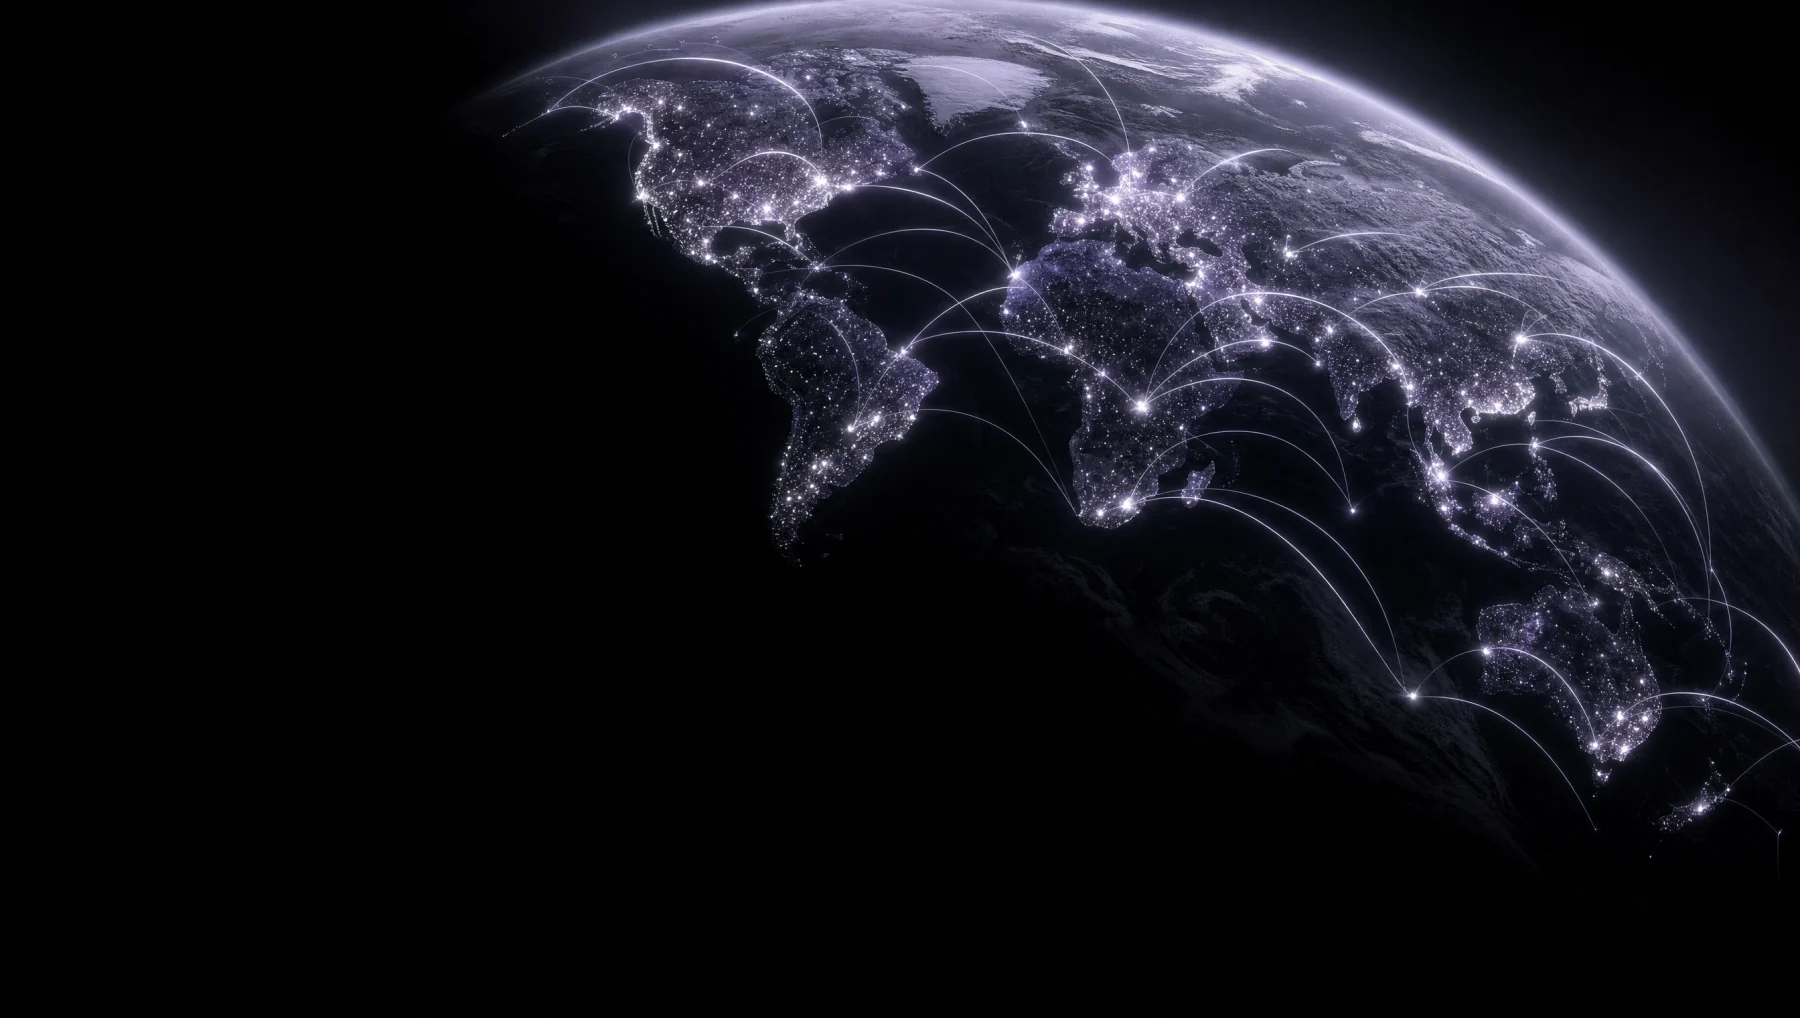
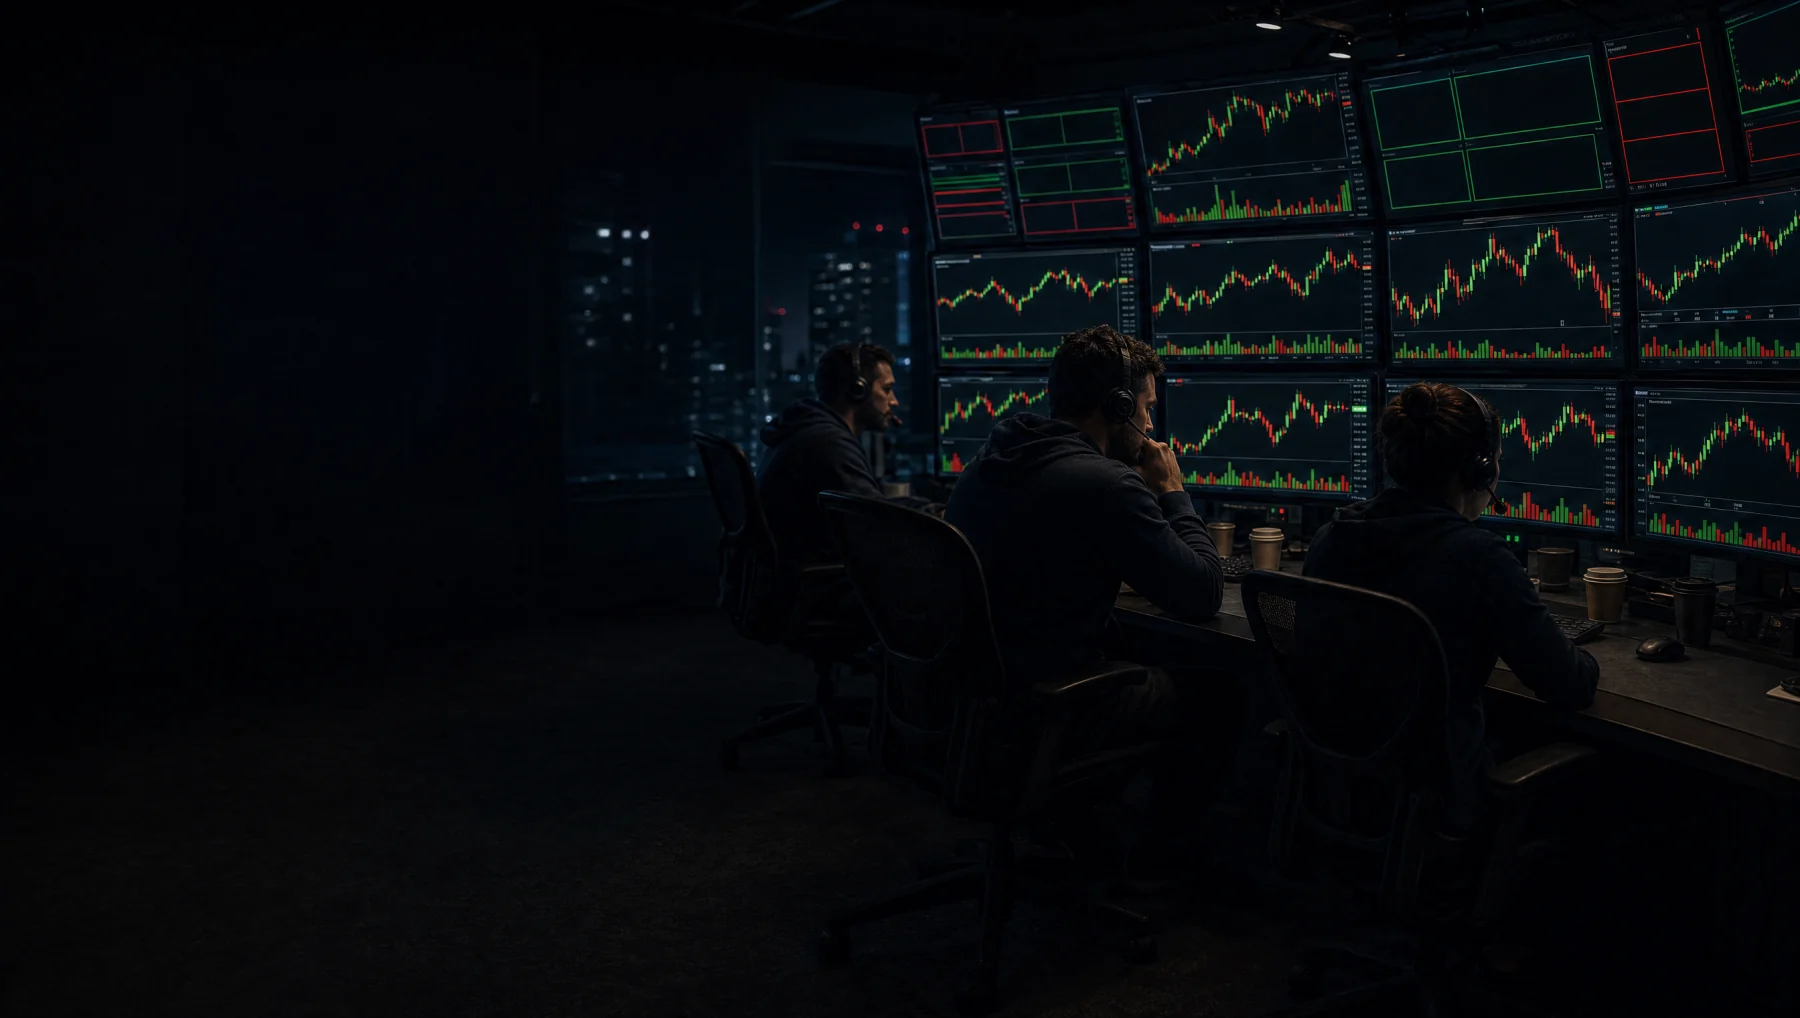
Fill every campaign with its own creative work
Generated 57 campaign images from the audit plan, each grounded in what
that campaign actually did: the Pavilion KL installation and murals for
Tiger, the tradesperson submission mechanic for Bosch, Gare du Nord and
creator content for Revolut, wallet-cluster investigations for
Bubblemaps, guild meetups across four markets for YGG, grandmaster
broadcasts for Immortal, an esports arena and a press riser for PIF.

Formats follow the brief: out-of-home posters, retail and mall
activations, creator verticals, product interfaces and a campaign
overview board per campaign, all composed with a dark lower left so the
channel title reads over them.

Sixteen of seventeen campaigns now show a creative collection, 76 tiles
in total, where eleven of them previously showed nothing at all.

Replaced three assets the audit flagged: two carried a visual
reconstruction note burned into the pixels, and Saitama's cover was a
stock globe. The JEDSTAR and CBRE covers Josh supplied are untouched.

Claude-Session: https://claude.ai/code/session_016UBiXsnMjyphaaZTz76UZe

Changed region(s): [[0.28, 0.0, 1.0, 0.8222], [0.9644, 0.1827, 1.0, 0.2436], [0.3111, 0.2741, 0.3422, 0.335]]

diff --git a/docs/catalog.js b/docs/catalog.js
@@ -31,11 +31,11 @@ const nextCurrencyCampaign={
 };
 
 const changes={
- lego:{color:'#0052c9',image:'lego-sculpture',hero:'lego-sculpture',gallery:['lego-hero','lego-interior','lego-detail','lego-journey','lego-social','lego-board'],logo:'lego-logo',art:'lego',
+ lego:{color:'#0052c9',image:'lego-sculpture',hero:'lego-sculpture',gallery:['lego-detail','lego-film','lego-gift','lego-hero','lego-interior','lego-journey','lego-oob','lego-social','lego-board'],logo:'lego-logo',art:'lego',
   budget:['US$800K','Creators, hero film distribution, ecommerce and localisation'],
   metrics:[['120M','Video views'],['45M','Completed views'],['1.2% → 2.2%','Ecommerce click-through'],['3x → 5x','Retargeted purchase ROAS']],
   credit:'Aier Studios owned creators, video distribution, localisation and the ecommerce journey as activation partner to the lead agency.'},
- revolut:{color:'#2256f2',image:'revolut-metal',hero:'revolut-metal',gallery:['revolut-hero','revolut-creator','revolut-payment','revolut-journey','revolut-social','revolut-board'],logo:'revolut-logo',art:'revolut',
+ revolut:{color:'#2256f2',image:'revolut-metal',hero:'revolut-metal',gallery:['revolut-creator','revolut-funnel','revolut-hero','revolut-journey','revolut-metro','revolut-payment','revolut-social','revolut-tiktok','revolut-board'],logo:'revolut-logo',art:'revolut',
   budget:['€1.2M','Paid social, creators, search and app store, measurement and production'],
   metrics:[['€35 → €20','Funded-account CAC'],['€6.50 → €3.50','Cost per install'],['35% → 50%','KYC to funded account'],['150M+','Impressions']],
   credit:'Aier Studios owned the French-market acquisition scope from creative through funded account, as AI-native activation partner to the lead agency.'},
@@ -47,7 +47,7 @@ const changes={
   budget:['RM1.5M','Campaign technology, social video, artists and creators, production and measurement'],
   metrics:[['250K','AR and QR interactions'],['25M','Social video views'],['80M','Impressions'],['RM5M','Earned media value']],
   credit:'Aier Studios owned campaign technology, social distribution and measurement for the lead agency’s integrated campaign.'},
- pif:{image:'pif-cover',hero:'pif-cover',
+ pif:{image:'pif-cover',hero:'pif-cover',gallery:['pif-briefing','pif-linkedin','pif-newsroom','pif-studio','pif-board'],
   budget:['US$500K','Narrative adaptation, paid LinkedIn, PR and newsroom, stakeholder briefing and reporting'],
   metrics:[['150M','People reached'],['700','Media placements'],['30M','Video views'],['400','Qualified industry enquiries']],
   credit:'Aier Studios owned narrative adaptation, paid and social distribution, newsroom operations and stakeholder follow-up for the institutional communications team.'},
@@ -55,37 +55,37 @@ const changes={
   budget:['US$650K','Creators and drop content, app install campaigns, collector lifecycle and production'],
   metrics:[['350K','Active users · 2021'],['1.4M','Collectibles sold · 2021'],['US$8 → US$3','Activated-user acquisition cost']],
   credit:'Aier Studios owned GTM and social strategy, drop campaigns, creators, paid app acquisition and collector lifecycle for the platform’s licensed-IP releases.'},
- ygg:{image:'ygg-cover',hero:'ygg-cover',
+ ygg:{image:'ygg-cover',hero:'ygg-cover',gallery:['ygg-creator','ygg-guild','ygg-markets','ygg-onboarding'],
   budget:['US$1.2M','Community operations, local creators, paid and regional events across four markets'],
   metrics:[['110K+','Community followers from zero'],['US$2–5','Cost per member'],['US$15M','Raised across two rounds'],['4','Southeast Asian markets']],
   credit:'Aier Studios was the embedded growth team, owning country positioning, local-language community operations, creators and the fundraise narrative.'},
- saitama:{image:'saitama-cover',hero:'saitama-cover',
+ saitama:{image:'saitama-cover',hero:'saitama-cover',gallery:['saitama-clippers','saitama-holders','saitama-spaces'],
   budget:['US$1.2M','Tiered KOL waves, clipping network, Telegram and Spaces operations, paid and production'],
   metrics:[['370K+','Token holders'],['US$6 → US$2','Holder acquisition cost'],['US$7.5B','Peak value'],['Top 40','Global position']],
   credit:'Aier Studios was the project’s growth agency, owning positioning, the KOL programme, the clipping network, Telegram and Spaces operations and PR.'},
- bubblemaps:{image:'bubblemaps-cover',hero:'bubblemaps-cover',
+ bubblemaps:{image:'bubblemaps-cover',hero:'bubblemaps-cover',gallery:['bubblemaps-analyst','bubblemaps-investigation','bubblemaps-launch','bubblemaps-mobile','bubblemaps-board'],
   budget:['US$500K','Category education, credibility seeding and launch operations'],
   metrics:[['10 sec','Target reached'],['202,990 BNB','Committed'],['13,500%','Oversubscribed'],['15.9x','TGE price']],
   credit:'Aier Studios owned category education, the pre-launch community, the KOL programme and launch communications for the BMT token generation event.'},
- jedstar:{image:'jedstar-cover',hero:'jedstar-cover',
+ jedstar:{image:'jedstar-cover',hero:'jedstar-cover',gallery:['jedstar-platform','jedstar-presale','jedstar-tokenomics','jedstar-board'],
   budget:['US$1.2M','Brand and product scope, KOL programme, community and paid, investor go-to-market'],
   metrics:[['50K+','Community members from zero'],['US$10–20','Acquisition cost per member'],['US$3M','Pre-seed raised'],['US$2M','KRED presale filled']],
   credit:'Aier Studios was engaged from inception and owned the brand, product proposition, community, presale and investor go-to-market.'},
- coliseum:{image:'coliseum-cover',hero:'coliseum-cover',gallery:['coliseum-growth','coliseum-board'],
+ coliseum:{image:'coliseum-cover',hero:'coliseum-cover',gallery:['coliseum-community','coliseum-creator','coliseum-growth','coliseum-board'],
   budget:['US$1M+','Operating budget across Asia Pacific, Europe, the United States and Latin America'],
   metrics:[['200K','Active users from 4M members'],['US$1.20 → US$0.40','Member acquisition cost'],['90%','Onboarding friction removed'],['US$15M','Raised']]},
  cbre:{logo:'cbre-logo',image:'cbre-cover',hero:'cbre-cover',
   metrics:[['2 → 50+','Team growth'],['7','APAC markets'],['US$100M','Annual revenue line'],['US$1B','NTT transaction']]},
- sera:{image:'sera-cover',hero:'sera-cover',
+ sera:{image:'sera-cover',hero:'sera-cover',gallery:['sera-treasury','sera-board'],
   metrics:[['30','Signed agreements in year one'],['70+','Issuer and counterparty relationships'],['15','Liquidity counterparties'],['US$6M','Institutional and investor funds committed']]},
- aier:{image:'aier-cover',hero:'aier-cover',
+ aier:{image:'aier-cover',hero:'aier-cover',gallery:['aier-production','aier-review','aier-team','aier-board'],
   metrics:[['US$1.2M','ARR built'],['US$9M+','Client campaign budgets managed'],['US$3M','Sold to Coliseum'],['30+','Markets']]},
  effex:nextCurrencyCampaign,
- cult:{image:'cult-cover',hero:'cult-cover',
+ cult:{image:'cult-cover',hero:'cult-cover',gallery:['cult-seeding','cult-spread','cult-board'],
   budget:['US$250K','Positioning and manifesto material, micro-KOL seeding and crypto media'],
   metrics:[['US$150M','Market capitalisation within two months'],['Fair launch','No venture round, no presale']],
   credit:'Aier Studios was the launch’s growth partner, owning positioning, the manifesto material, micro-KOL seeding and crypto media.'},
- immortal:{image:'immortal-cover',hero:'immortal-cover',
+ immortal:{image:'immortal-cover',hero:'immortal-cover',gallery:['immortal-grandmaster','immortal-stream','immortal-token2049','immortal-tournament','immortal-board'],
   budget:['US$600K','Grandmaster and creator partnerships, tournament campaigns and community operations'],
   metrics:[['3M+','Community followers from zero'],['~50K','Registered players'],['US$25 → US$12','Registered-player acquisition cost'],['€15.7M','Seed and Series A raised']],
   credit:'Aier Studios was the client’s growth agency, owning positioning, grandmaster and creator partnerships, tournament campaigns and community operations.'}
